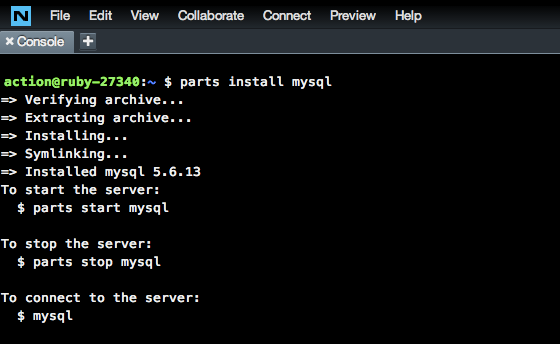
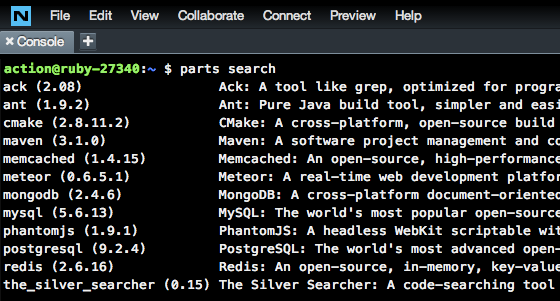
updated screenshot and also text

Changed region(s): [[0.0, 0.2093, 1.0, 0.9867], [0.0, 0.0299, 1.0, 0.1794]]

diff --git a/9-17-2013 Autoparts Announcement/email-editable-stylesheet.html b/9-17-2013 Autoparts Announcement/email-editable-stylesheet.html
@@ -552,7 +552,7 @@
 																	<a href="http://www.nitrous.io" target="_blank" alt="Nitrous.IO Logo"><img src="images/nitrous-logo-newsletter-lg.png" width="186px"></a>
 															</td>
 															<td style="margin:0;padding:8px 20px; background-color:#2692d7;">
-																<h1 style="display: block;font-family: Helvetica;font-size: 21px;font-style: normal;line-height: 100%;letter-spacing: normal;margin-top: 10px;margin-bottom: 10px;margin-left: 0;text-align: right;color: #FFFFFF;">August Newsletter</h1>
+																<h1 style="display: block;font-family: Helvetica;font-size: 21px;font-style: normal;line-height: 100%;letter-spacing: normal;margin-top: 10px;margin-bottom: 10px;margin-left: 0;text-align: right;color: #FFFFFF;">New Features</h1>
 															</td>
 													</tr>
 												</table>
@@ -565,19 +565,25 @@
                                         <tr>
                                             <td valign="top" class="bodyContent" mc:edit="body_content00">
                                                 <h1>Autoparts: A Package Manager for Nitrous.IO</h1>
-                                                <p>We are wanting to share with you our new package manager which allows you to install databases, interpreters, and other tools. All open source.</p>
+                                                <p>We are wanting to share with you our new package manager which allows you to install databases, interpreters, and other tools. Looking to start a project with MySQL, MongoDB, or Postgres? We got you covered.</p>
+                                                <p>To get started with Autoparts, create a new Nitrous box and run "parts search" to view all of the tools and databases available. If you wish to install a database such as MySQL, run "parts install mysql".</p>
                                             </td>
                                         </tr>
                                     	<tr>
                                         	<td class="bodyContent" style="padding-top:0; padding-bottom:0;">
-                                            	<img src="images/autoparts.png" style="max-width:560px;" id="bodyImage" mc:label="body_image" mc:edit="body_image" mc:allowtext />
+                                            	<img src="images/autoparts.png" style="max-width:560px;" alt="Autoparts Package Manager" id="bodyImage" mc:label="body_image" mc:edit="body_image" mc:allowtext />
                                             </td>
                                         </tr>
                                         <tr>
+                                        	<td valign="top" class="bodyContent" mc:edit="body_content00">
+                                            <p>For more information on how to use Autoparts, please visit the <a href="http://help.nitrous.io/autoparts/" target ="_blank">Autoparts guide</a> on our help site.</p>
+                                            <p>Don't want to wait for certain a tool to be added? Take a look at Autoparts on <a href="https://github.com/action-io/autoparts" target="_blank">Github</a> and feel free to make a pull request.</p>
+                                          </td>
+                                        </tr>
+                                        <tr>
                                             <td valign="top" class="bodyContent" mc:edit="body_content01">
-                                                <h2>New updates</h2>
-                                                <h4>Make your email easy to read</h4>
-                                                After you enter your content, highlight the text you want to style and select the options you set in the style editor in the "<em>styles</em>" drop down box. Want to <a href="http://www.mailchimp.com/kb/article/im-using-the-style-designer-and-i-cant-get-my-formatting-to-change" target="_blank">get rid of styling on a bit of text</a>, but having trouble doing it? Just use the "<em>remove formatting</em>" button to strip the text of any formatting and reset your style. 
+                                                <h2>New updates with Bran</h2>
+                                                Bran brings support for inotify, which is used by popular tools such as guard, fswatch, and Sass.
                                             </td>
                                         </tr>
                                     </table>
